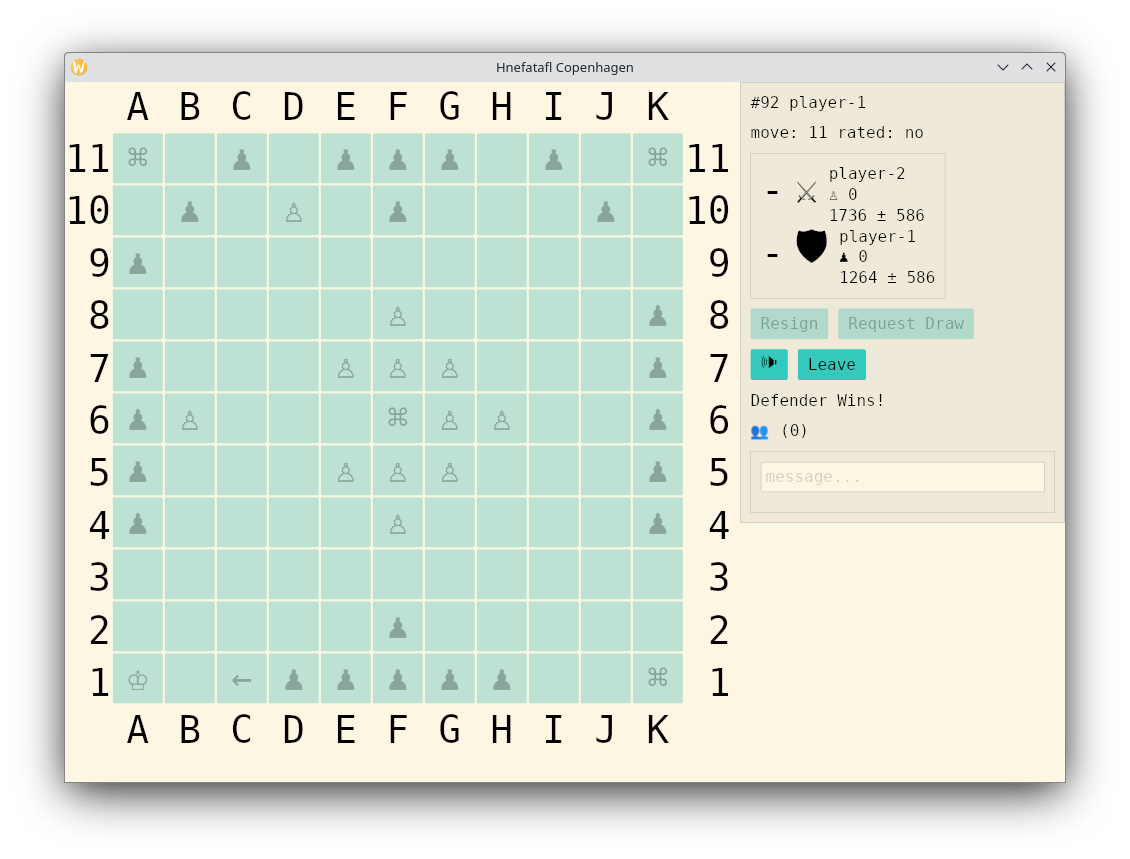
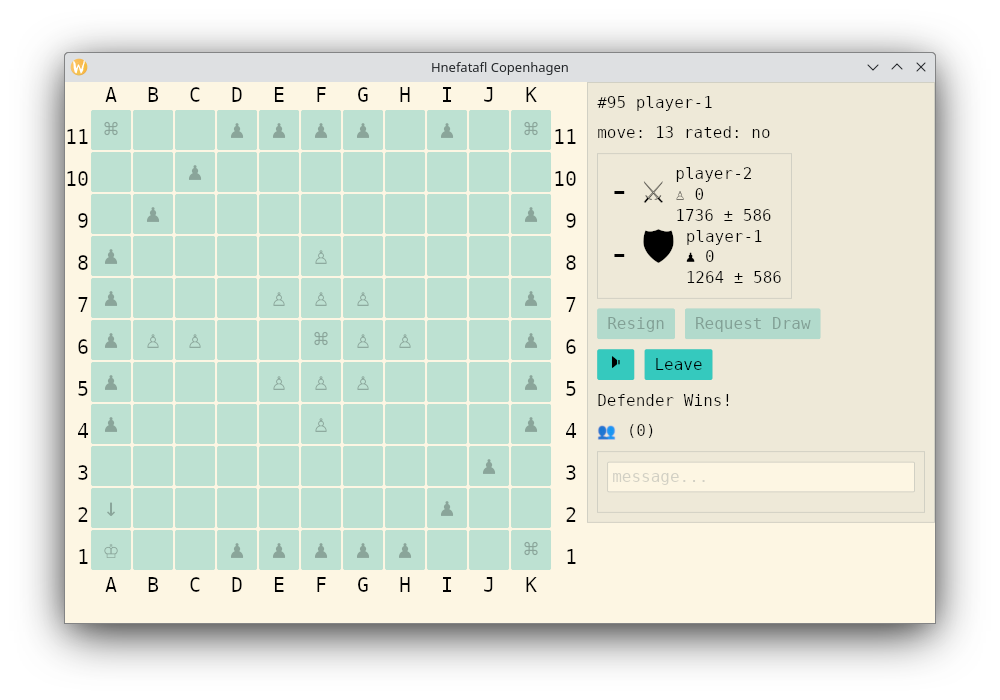
Update the screenshots.

Changed region(s): [[0.031, 0.03, 0.961, 0.96]]

diff --git a/src/bin/hnefatafl-client.rs b/src/bin/hnefatafl-client.rs
@@ -67,10 +67,6 @@ fn main() -> anyhow::Result<()> {
         .default_font(Font::MONOSPACE)
         .subscription(Client::subscriptions)
         .theme(Client::theme)
-        .window_size(iced::Size {
-            width: 1_000.0,
-            height: 700.0,
-        })
         .run()?;
 
     Ok(())
@@ -137,8 +133,9 @@ impl Client {
         let letters: Vec<_> = BOARD_LETTERS.chars().collect();
         let (board_size, letter_size, piece_size, spacing) = match self.screen_size {
             Size::Large => (75, 55, 60, 6),
-            Size::Medium => (65, 45, 50, 4),
-            Size::Small => (50, 38, 35, 3),
+            Size::Medium => (65, 45, 50, 8),
+            Size::Small => (55, 35, 40, 11),
+            Size::Tiny => (40, 20, 25, 16),
         };
 
         let Some(game) = &self.game else {
@@ -963,8 +960,10 @@ impl Client {
                     self.screen_size = Size::Large;
                 } else if width >= 1_200.0 && height >= 850.0 {
                     self.screen_size = Size::Medium;
-                } else {
+                } else if width >= 1_000.0 && height >= 750.0 {
                     self.screen_size = Size::Small;
+                } else {
+                    self.screen_size = Size::Tiny;
                 }
             }
         }
@@ -1681,6 +1680,7 @@ fn open_url(url: &str) {
 
 #[derive(Clone, Debug, Default, Eq, PartialEq)]
 enum Size {
+    Tiny,
     #[default]
     Small,
     Medium,
